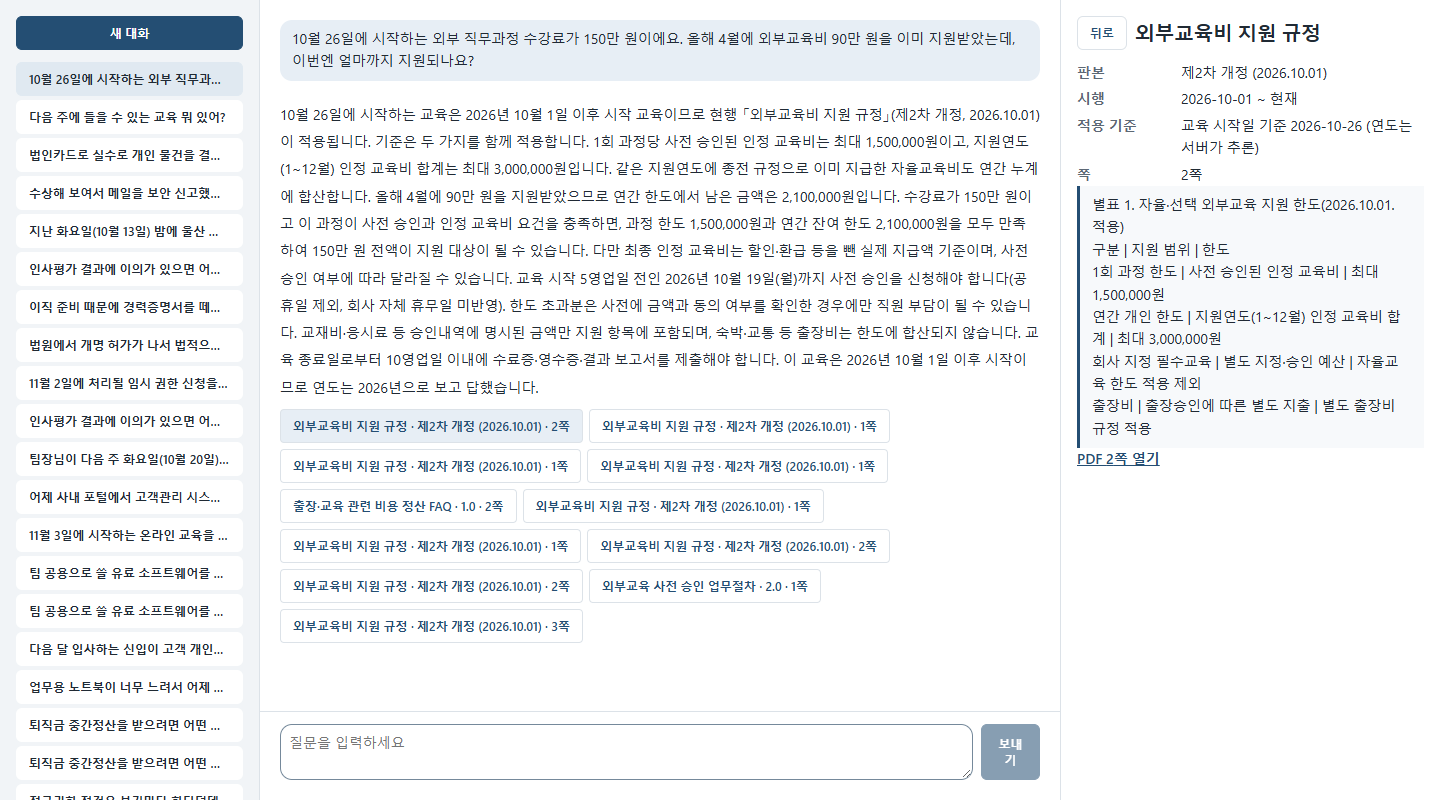
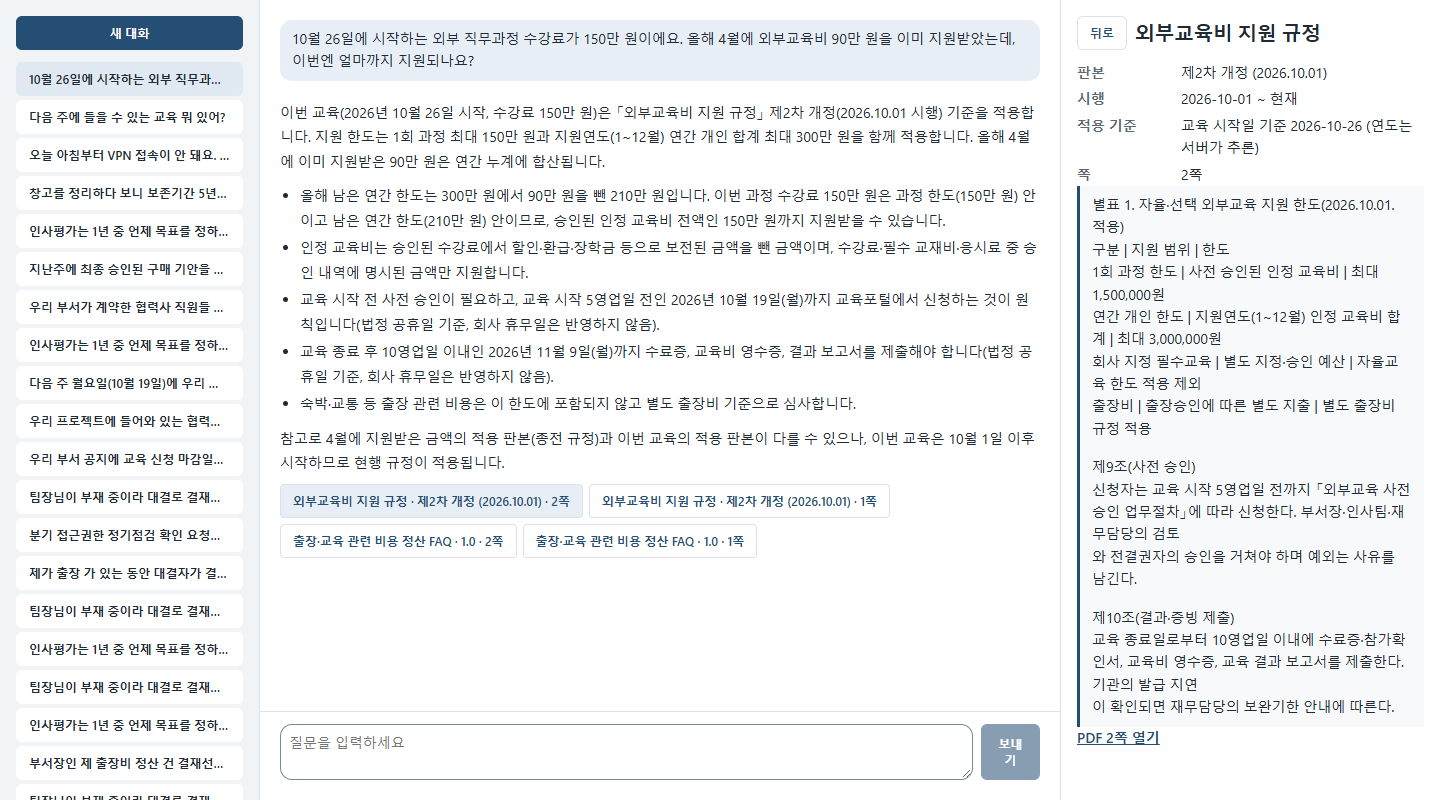
답 가독성: 결론 먼저·조건은 목록으로, 같은 쪽 인용은 버튼 하나로
- 프롬프트 m7-answer-7: answer 형식 규칙만 추가(D-75), 내용 규칙은 그대로
- 화면: '- ' 줄을 목록으로, 같은 문서·판본·쪽·적용 기준 인용을 묶고 상세에 조각 전부 표시
- E2E: 목록 표시와 인용 묶음 시험 추가, README 화면 2장 재촬영

diff --git a/frontend/src/Workspace.tsx b/frontend/src/Workspace.tsx
@@ -5,7 +5,7 @@ import { ActionCard } from "./ActionCard";
 import { ApiError, NetworkError, api, newKey, sendMessage } from "./api";
 import { DetailPanel } from "./Detail";
 import { OUTCOMES, STAGES, formatTime } from "./labels";
-import type { Conversation, Detail, MessageResult, SessionInfo, StoredMessage } from "./types";
+import type { Citation, Conversation, Detail, MessageResult, SessionInfo, StoredMessage } from "./types";
 
 type Pending = { content: string; key: string; conversationId: string };
 
@@ -231,7 +231,7 @@ function MessageView({
   return (
     <article className={`message assistant${message.visibility === "redacted" ? " redacted" : ""}`} data-outcome={message.outcome ?? ""}>
       {message.outcome && message.outcome !== "answered" && <span className="badge">{OUTCOMES[message.outcome] ?? message.outcome}</span>}
-      <p className="answer">{message.content}</p>
+      <AnswerText text={message.content} />
       {message.training_refs.length > 0 && (
         <ul className="refs" aria-label="교육">
           {message.training_refs.map((t) => (
@@ -245,14 +245,18 @@ function MessageView({
       )}
       {message.citations.length > 0 && (
         <ul className="refs" aria-label="근거 원문">
-          {message.citations.map((c) => (
-            <li key={c.citation_id}>
-              <button type="button" className="citation" onClick={(e) => onDetail({ kind: "citation", citation: c }, e.currentTarget)}>
-                {c.title} · {c.version} · {c.page_spans?.[0]?.page ?? 1}쪽
-                {c.edition_state && c.edition_state !== "current" ? " · 종전" : ""}
-              </button>
-            </li>
-          ))}
+          {groupCitations(message.citations).map((group) => {
+            const c = group[0];
+            return (
+              <li key={c.citation_id}>
+                <button type="button" className="citation"
+                  onClick={(e) => onDetail({ kind: "citation", citation: c, group }, e.currentTarget)}>
+                  {c.title} · {c.version} · {c.page_spans?.[0]?.page ?? 1}쪽
+                  {c.edition_state && c.edition_state !== "current" ? " · 종전" : ""}
+                </button>
+              </li>
+            );
+          })}
         </ul>
       )}
       {message.ticket_refs.length > 0 && (
@@ -274,5 +278,45 @@ function MessageView({
         />
       )}
     </article>
+  );
+}
+
+// 같은 문서·판본·쪽·적용 기준의 원문 조각은 버튼 하나로 묶는다. 처음 나온 순서를 지킨다.
+function groupCitations(citations: Citation[]): Citation[][] {
+  const groups = new Map<string, Citation[]>();
+  for (const c of citations) {
+    const key = [c.title, c.version, c.page_spans?.[0]?.page ?? 1, c.edition_state, c.as_of_date, c.date_basis,
+      c.edition_split ?? false, c.source_role ?? ""].join("|");
+    const group = groups.get(key);
+    if (!group) groups.set(key, [c]);
+    else if (!group.some((g) => g.passage_id === c.passage_id)) group.push(c);
+  }
+  return [...groups.values()];
+}
+
+// 답 본문: 빈 줄로 문단을 나누고, "- "로 시작하는 줄은 목록으로 보인다. 그 밖의 글자는 그대로 둔다.
+function AnswerText({ text }: { text: string }) {
+  const blocks: ({ kind: "p"; lines: string[] } | { kind: "ul"; items: string[] })[] = [];
+  for (const line of text.split("\n")) {
+    const item = /^\s*[-•]\s+(.*)$/.exec(line);
+    const last = blocks[blocks.length - 1];
+    if (item) {
+      if (last?.kind === "ul") last.items.push(item[1]);
+      else blocks.push({ kind: "ul", items: [item[1]] });
+    } else if (!line.trim()) {
+      if (last && !(last.kind === "p" && last.lines.length === 0)) blocks.push({ kind: "p", lines: [] });
+    } else if (last?.kind === "p") last.lines.push(line);
+    else blocks.push({ kind: "p", lines: [line] });
+  }
+  return (
+    <div className="answer">
+      {blocks.map((b, i) =>
+        b.kind === "ul" ? (
+          <ul key={i}>{b.items.map((item, j) => <li key={j}>{item}</li>)}</ul>
+        ) : b.lines.length > 0 ? (
+          <p key={i}>{b.lines.join("\n")}</p>
+        ) : null,
+      )}
+    </div>
   );
 }

diff --git a/frontend/src/Detail.tsx b/frontend/src/Detail.tsx
@@ -6,26 +6,30 @@ import type { Detail } from "./types";
 
 export function DetailPanel({ detail, onClose, onExpired }: { detail: Detail; onClose: () => void; onExpired: () => void }) {
   const [data, setData] = useState<Record<string, unknown> | null>(null);
+  const [texts, setTexts] = useState<(string | null)[] | null>(null);
   const [error, setError] = useState<string | null>(null);
   const heading = useRef<HTMLHeadingElement | null>(null);
 
   useEffect(() => {
     let alive = true;
     setData(null);
+    setTexts(null);
     setError(null);
-    const load =
-      detail.kind === "training"
-        ? api.training(detail.id)
-        : detail.kind === "ticket"
-          ? api.ticket(detail.id)
-          : api.evidence(detail.citation.evidence_url);
-    load
-      .then(({ data }) => alive && setData(data))
-      .catch((e) => {
-        if (!alive) return;
-        if (e instanceof ApiError && e.status === 401) onExpired();
-        else setError(e instanceof ApiError && e.status === 404 ? "볼 수 없는 자료입니다." : "불러오지 못했습니다.");
-      });
+    const fail = (e: unknown) => {
+      if (!alive) return;
+      if (e instanceof ApiError && e.status === 401) onExpired();
+      else setError(e instanceof ApiError && e.status === 404 ? "볼 수 없는 자료입니다." : "불러오지 못했습니다.");
+    };
+    if (detail.kind === "citation") {
+      // 묶인 조각마다 원문을 읽는다(권한은 요청마다 서버가 다시 확인한다).
+      Promise.all(detail.group.map((c) => api.evidence(c.evidence_url)))
+        .then((loaded) => alive && setTexts(loaded.map(({ data }) => (data.text as string | undefined) ?? null)))
+        .catch(fail);
+    } else {
+      (detail.kind === "training" ? api.training(detail.id) : api.ticket(detail.id))
+        .then(({ data }) => alive && setData(data))
+        .catch(fail);
+    }
     heading.current?.focus();
     return () => {
       alive = false;
@@ -46,7 +50,7 @@ export function DetailPanel({ detail, onClose, onExpired }: { detail: Detail; on
         <h2 tabIndex={-1} ref={heading}>{title}</h2>
       </div>
       {error && <p className="notice" role="alert">{error}</p>}
-      {detail.kind === "citation" && <CitationBody detail={detail} data={data} />}
+      {detail.kind === "citation" && <CitationBody detail={detail} texts={texts} />}
       {detail.kind === "training" && data && (
         <dl className="fields">
           <div><dt>교육</dt><dd>{String(data.title)}</dd></div>
@@ -70,7 +74,7 @@ export function DetailPanel({ detail, onClose, onExpired }: { detail: Detail; on
   );
 }
 
-function CitationBody({ detail, data }: { detail: Extract<Detail, { kind: "citation" }>; data: Record<string, unknown> | null }) {
+function CitationBody({ detail, texts }: { detail: Extract<Detail, { kind: "citation" }>; texts: (string | null)[] | null }) {
   const c = detail.citation;
   const page = c.page_spans?.[0]?.page ?? 1;
   const past = c.edition_state && c.edition_state !== "current";
@@ -88,7 +92,9 @@ function CitationBody({ detail, data }: { detail: Extract<Detail, { kind: "citat
         {c.source_role === "transition" && <div><dt>구분</dt><dd>반대편 판본의 경과조항</dd></div>}
         <div><dt>쪽</dt><dd>{page}쪽</dd></div>
       </dl>
-      <blockquote>{String((data?.text as string | undefined) ?? c.quote)}</blockquote>
+      {detail.group.map((g, i) => (
+        <blockquote key={g.citation_id}>{texts?.[i] ?? g.quote}</blockquote>
+      ))}
       {/* 서버가 만든 같은 출처 경로만 링크로 쓴다 */}
       {c.pdf_url.startsWith("/api/v1/") && (
         <a className="pdf-link" href={c.pdf_url} target="_blank" rel="noreferrer">PDF {page}쪽 열기</a>

diff --git a/frontend/e2e/flows.spec.ts b/frontend/e2e/flows.spec.ts
@@ -129,6 +129,33 @@ test("규정 인용: 판본·종전·적용 기준·쪽을 보여 주고 PDF는 
   await expect(panel.getByRole("link", { name: /PDF \d+쪽 열기/ })).toHaveAttribute("href", /\/api\/v1\/source-files\/PDF-031\/pdf#page=\d+/);
 });
 
+test("답 형식: '- ' 줄은 목록으로 보이고, 같은 문서·판본·쪽 인용은 버튼 하나로 묶인다(D-75)", async ({ page }) => {
+  await login(page);
+  await ask(page, "9월 29일에 시작한 외부교육 한도 정리해 줘");
+  const answer = page.locator(".message.assistant .answer").last();
+  await expect(answer.locator("p")).toHaveText("외부교육비는 과정 한도와 연간 한도를 함께 봅니다.");
+  await expect(answer.locator("li")).toHaveText(["사전 승인을 받은 교육만 지원합니다", "한도를 넘는 금액은 본인이 부담합니다"]);
+
+  // 서버가 준 인용 수와 화면 버튼 수를 비교한다(같은 문서·판본·쪽이면 하나).
+  const conversationId = await page.locator("#conversation-list button.selected").getAttribute("data-id");
+  const stored = (await (await page.request.get(`/api/v1/conversations/${conversationId}/messages`)).json()).items;
+  const citations: { title: string; version: string; page_spans: { page: number }[] }[] = stored[stored.length - 1].citations;
+  const pages = new Map<string, number>();
+  for (const c of citations) {
+    const key = `${c.title} · ${c.version} · ${c.page_spans[0]?.page ?? 1}쪽`;
+    pages.set(key, (pages.get(key) ?? 0) + 1);
+  }
+  const buttons = page.locator(".message.assistant").last().locator("button.citation");
+  await expect(buttons).toHaveCount(pages.size);
+  expect(new Set(await buttons.allInnerTexts()).size).toBe(pages.size);
+
+  // 조각이 여럿인 버튼은 상세에 그 조각을 모두 보인다.
+  const [label, count] = [...pages.entries()].sort((a, b) => b[1] - a[1])[0];
+  expect(count).toBeGreaterThan(1); // 시험 corpus에서 같은 쪽 조각이 실제로 묶이는지 확인
+  await buttons.filter({ hasText: label }).first().click();
+  await expect(page.getByRole("complementary", { name: "상세" }).locator("blockquote")).toHaveCount(count);
+});
+
 test("IT 접수: 초안 → 수정 저장 → 확인 반복 클릭에도 티켓 1건, 새로고침 뒤 실제 상태", async ({ page }) => {
   await login(page);
   const before = await tickets(page);

diff --git a/frontend/src/styles.css b/frontend/src/styles.css
@@ -81,7 +81,11 @@ label { display: grid; gap: 4px; font: 600 13px var(--font); }
 .message.user { align-self: flex-end; background: var(--highlight); border-radius: 12px; padding: 8px 12px; }
 .message.user p { margin: 0; white-space: pre-wrap; overflow-wrap: anywhere; }
 .message { min-width: 0; overflow-wrap: anywhere; }
-.message.assistant .answer { line-height: 1.95; white-space: pre-wrap; margin: 4px 0; overflow-wrap: anywhere; }
+.message.assistant .answer { line-height: 1.75; margin: 4px 0; overflow-wrap: anywhere; }
+.answer p { margin: 0 0 10px; white-space: pre-wrap; }
+.answer ul { margin: 0 0 10px; padding-left: 20px; }
+.answer li { margin: 3px 0; }
+.answer > :last-child { margin-bottom: 0; }
 .refs button { max-width: 100%; white-space: normal; text-align: left; overflow-wrap: anywhere; }
 .message.redacted .answer { color: var(--muted); }
 .badge { display: inline-block; font: 600 12px var(--font); color: var(--muted); border: 1px solid var(--line); border-radius: 4px; padding: 0 6px; }

diff --git a/frontend/src/types.ts b/frontend/src/types.ts
@@ -92,5 +92,6 @@ export interface MessageResult {
 
 export type Detail =
   | { kind: "training"; id: string; title: string }
-  | { kind: "citation"; citation: Citation }
+  // 같은 문서·판본·쪽의 원문 조각은 버튼 하나로 묶는다(group[0] = citation).
+  | { kind: "citation"; citation: Citation; group: Citation[] }
   | { kind: "ticket"; id: string; title: string };

diff --git a/backend/tests/e2e_server.py b/backend/tests/e2e_server.py
@@ -84,6 +84,8 @@ class RuleModel:
             await asyncio.sleep(0.3)
             call = request.messages[-2].tool_calls[0]
             result = json.loads(last.tool_results[0].content)
+            if call.name == "search_documents" and call.arguments.get("query") == "외부교육비 지원 한도 정리":
+                return self._summary(result)
             return self._after(call.name, result)
         question = (last.text or "").split("[사용자 질문]\n", 1)[-1]
         if "VPN" in question:
@@ -107,6 +109,17 @@ class RuleModel:
             return _tool("list_it_tickets", {})
         if "교육" in question and ("일정" in question or "다음 주" in question):
             return _tool("list_trainings", {"date_preset": "next_week"})
+        if "정리" in question:
+            # 답 형식(D-75): 결론 문장 + "- " 항목, 받은 원문 전부 인용(화면이 같은 쪽 조각을 묶는다)
+            return _tool(
+                "search_documents",
+                {
+                    "query": "외부교육비 지원 한도 정리",
+                    "date_basis": "training_start",
+                    "as_of_date": "2026-09-29",
+                    "date_quote": "9월 29일에 시작한",
+                },
+            )
         if "한도" in question or "규정" in question:
             args: dict[str, Any] = {"query": "외부교육비 1회 과정 지원 한도"}
             if "9월 29일에 시작한" in question:
@@ -115,6 +128,19 @@ class RuleModel:
                 )
             return _tool("search_documents", args)
         return _final("교육 일정, 회사 규정, IT 지원 접수를 도와드릴 수 있습니다.")
+
+    def _summary(self, result: dict[str, Any]) -> ModelResponse:
+        if not result.get("ok") or result["data"]["resolution"] != "resolved":
+            return _final("날짜를 알려 주세요.", "needs_clarification")
+        passages = [p for g in result["data"]["groups"] for p in g["passages"]]
+        if not passages:
+            return _final("근거를 찾지 못했습니다.", "insufficient_evidence")
+        answer = (
+            "외부교육비는 과정 한도와 연간 한도를 함께 봅니다.\n\n"
+            "- 사전 승인을 받은 교육만 지원합니다\n"
+            "- 한도를 넘는 금액은 본인이 부담합니다"
+        )
+        return _final(answer, citation_ids=[p["citation_id"] for p in passages[:12]])  # 인용 상한 30 안
 
     def _after(self, name: str, result: dict[str, Any]) -> ModelResponse:
         if not result.get("ok"):

diff --git a/backend/src/agent/modules/agent_runtime/prompt.py b/backend/src/agent/modules/agent_runtime/prompt.py
@@ -30,7 +30,8 @@ from agent.shared.clock import KST
 # m7-answer-4: 검색을 약속만 하고 도구를 부르지 않은 첫 응답에 서버 안내 SEARCH_PROMISE_RETRY(D-68).
 # m7-answer-5: 영업일 기한은 직접 세지 않고 calculate_business_deadline으로 계산한다(규칙 21, D-69).
 # m7-answer-6: 검색 결과의 deadline_hints(서버가 사용자 날짜로 미리 계산한 마감일)를 쓴다(규칙 21, D-71).
-PROMPT_VERSION = "m7-answer-6"
+# m7-answer-7: answer 형식(결론 먼저, 조건·기한·예외는 "- " 항목, 다른 마크다운 금지, D-75). 내용 규칙은 그대로.
+PROMPT_VERSION = "m7-answer-7"
 
 _CACHE_FIELDS = ("id", "code", "title", "starts_at", "ends_at", "location", "status")
 
@@ -59,6 +60,7 @@ _TEMPLATE = """\
 
 최종 답변은 JSON으로 낸다(조회가 필요하면 도구 호출이 먼저다):
 - answer: 사용자에게 보여 줄 한국어 문장. 되묻기라면 사용자에게 할 질문이다. 어떤 outcome이든 비워 두지 않는다
+- answer 형식: 첫 한두 문장에 질문에 대한 결론을 쓴다. 덧붙일 조건·금액·기한·예외·절차가 둘 이상이면 빈 줄 하나 뒤에 줄마다 "- "로 시작하는 짧은 항목으로 나눈다(한 항목에 한 가지). 짧은 답은 문장으로만 쓴다. 굵게(**), 제목(#), 표 같은 다른 마크다운 기호는 쓰지 않는다(화면이 그대로 보여 준다)
 - outcome: answered / needs_clarification / no_results / insufficient_evidence 중 하나
 - training_ids: 답변에서 언급한 교육의 id 목록(도구 결과나 대화 자료의 id 그대로)
 - selected_training_id: 답변이 교육 하나만 가리키면 그 id, 아니면 null

diff --git a/backend/tests/test_agent_runtime.py b/backend/tests/test_agent_runtime.py
@@ -535,7 +535,8 @@ def test_prompt_requires_question_text_for_clarification():
     from agent.shared.clock import FIXTURE_NOW
 
     prompt = system_prompt(FIXTURE_NOW)
-    assert PROMPT_VERSION == "m7-answer-6"
+    assert PROMPT_VERSION == "m7-answer-7"
+    assert '줄마다 "- "로 시작하는 짧은 항목' in prompt  # D-75 답 형식
     assert "그다음 절차" in system_prompt(FIXTURE_NOW, documents=True)
     assert "assumed_today가 true면" in system_prompt(FIXTURE_NOW, documents=True)
     assert "되묻는 경우에도 answer에는 사용자에게 할 질문을 한국어 문장으로 쓴다" in prompt

diff --git a/docs/10-decisions-and-open-questions.md b/docs/10-decisions-and-open-questions.md
@@ -80,6 +80,7 @@
 | D-72 | 원문 검색 설정 `raw-exact-cosine-v2`(v1 `raw-exact-cosine-v1`): 후보 passage 20→40, 거리 순 그대로. MOD-02 예산: 검색 한 번은 실행 근거 예산(동결 4000)의 0.75까지만 새로 쓴다(대표 그룹은 예외로 전체 예산 안이면 넣는다, 다음 검색에 1000을 남긴다). 몫 때문에 덜 넣은 하위 후보는 evidence_budget_exceeded로 표시하지 않는다. 모델 인자 top_k 상한 20→40. 평가 결과 config에 retriever_config_id를 남기고 설정이 다른 결과 파일에는 이어 쓰지 않는다. 처음 커밋(6db8175)은 문서 다양성 순서(문서당 앞 4그룹)와 몫 0.5였으나, 모델을 뺀 검색 단계 비교(복수 문서 113문항, 같은 질의·같은 DB, 첫 검색의 예산 안 정답 근거 재현율)에서 v1 0.843 대비 0.815(좋아짐 9·나빠짐 20)로 나빠 고쳤다: 후보 40·거리 순·몫 없음 0.904(22·0), 몫 0.75 0.892(18·0), 몫 0.5 0.866(9·0), 다양성은 몫이 없으면 거리 순과 같고 몫과 함께면 해롭다. 주의: v1·v2의 Recall@pool·found_not_packed·hard negative in context는 후보 수가 달라 직접 비교하지 않는다. A/B 비교(docs/13)는 A만 이 설정을 쓰므로 비대칭이다(Wiki는 사용자 지시로 범위 밖) | holdout3 개선 후 실측: 복수 문서 문항에서 모델에 넘어간 원문 평균 1,652 token(예산의 41%), 후보 상한 20. 사용자 요청("복수 문서 질문의 검색 재현율", "과금해도 되니 조금만 쓰고 확실히 확인"), 세부값은 위 측정으로 정함. 독립 검증(저장된 질의 벡터 1,044개 모의): 몫이 없으면 첫 검색이 예산 중앙값 3,283 token을 써 다음 검색의 65%가 잘림. holdout4 전후 실행(D-73)은 모델 흔들림이 커 검색 효과를 가르지 못했다(보고서 9.12). [P-29](15-policy-options.md#p-29) B |
 | D-73 | D-72의 효과는 새 복수 문서 확인셋 holdout4(`eval/cases/holdout4.jsonl`, 20문항)로 개선 전(D-72 이전 코드: fd53a3d + holdout4 실행 지원 커밋)·후를 같은 문항·같은 DB·동결 예산 4000으로 한 번씩 돌려 짝으로 본다. 주 지표는 정답 근거가 모델 문맥에 들어갔는지(규칙 채점 evidence_in_context·recall_budget)이고, 정답률(규칙·judge)도 함께 본다. 실행은 과금(사용자 승인: "마지막엔 과금해도 되니 조금만 쓰고 확실히 확인해라") | holdout3는 D-72 실패 분석에 썼다(D-62·D-70과 같은 근거) |
 | D-74 | 대화 목록·상세의 title은 저장된 제목이 없으면 첫 사용자 질문(공백 정리, 40자 넘으면 자르고 …)으로 서버가 만든다. 저장하지 않는 표시 값이라 기존 대화에도 그대로 적용되고, 질문이 없는 빈 대화는 null(화면은 생성 시각 표시). 화면은 한 줄 말줄임과 전체 이름 툴팁 | 사용자 요청(2026-10-21): "대화 · 시각"만 줄지어 보여 구분이 안 된다 |
+| D-75 | 답 가독성: 프롬프트 m7-answer-7에 answer 형식 규칙(결론 먼저, 조건·기한·예외 등이 둘 이상이면 "- " 항목, 굵게·제목·표 금지)을 더하고, 화면은 "- " 줄을 목록으로, 같은 문서·판본·쪽·적용 기준의 인용을 버튼 하나로 묶는다(상세에 조각 전부). 내용 규칙은 바꾸지 않는다. 평가 수치(보고서 9절)는 m7-answer-6 이하 프롬프트로 잰 것이며, 형식 변경의 정답률 영향은 재지 않았다 | 사용자 요청(2026-10-21): 답이 한 문단으로 길게 이어지고 같은 쪽 인용 버튼이 여러 개 반복돼 읽기 어렵다("내용 말고" 가독성) |
 
 ## 초기 기본 정책 — 설정으로 명시
 

diff --git a/docs/modules/MOD-02-agent-runtime.md b/docs/modules/MOD-02-agent-runtime.md
@@ -59,6 +59,7 @@ origin_candidates의 quote/message ID를 CP-07 user 원문과 대조해 code poi
 - D-37: 도구 없는 첫 응답의 빈 answer(되묻기 제외)는 `[서버 안내]` 문구로 한 번만 다시 부르고 usage.empty_answer_retries에 남긴다. 사용자가 쓴 `[서버 안내]`는 무력화한다.
 - D-72(2026-10-20): `_search_view` 예산 packing에 검색당 몫 `_SEARCH_BUDGET_SHARE`(0.75)를 더했다. 한 검색은 실행 예산의 0.75까지만 새로 쓰고(첫 그룹은 예외로 전체 예산 안이면 넣음), 몫 때문에 멈춘 것은 evidence_budget_exceeded가 아니다. 전체 예산 초과·대표 그룹 누락 판정은 그대로다.
 - D-71(2026-10-20): `_search_view`가 예산 안 passage(`kept_groups`)로 `deadlines.deadline_hints`를 만들어 모델 보기에 `deadline_hints`로 붙인다. 기준일 후보는 `dates.deadline_bases`(이번 메시지 + 이력 창 본인 메시지를 최근 것부터, 최대 4개). 프롬프트 `m7-answer-6`(규칙 21).
+- D-75(2026-10-21): 프롬프트 `m7-answer-7`은 answer 형식만 정한다(첫 한두 문장에 결론, 덧붙일 조건·금액·기한·예외·절차가 둘 이상이면 빈 줄 뒤 "- " 항목, 다른 마크다운 금지). 내용·인용·결론 규칙은 m7-answer-6과 같다.
 - D-69(2026-10-20): calculate_business_deadline의 field_origins `base_date={verified, source}`를 계산한다(이번 실행 도구 결과의 ISO 날짜 `tool_dates`, 본인 메시지의 월·일 표현, 오늘+"오늘"). 계산 호출은 `deadline_calls`로 따로 세고 상한 `_MAX_DEADLINE_CALLS`=4, 나머지 도구는 기존 max_tool_proposals. 프롬프트 `m7-answer-5`(규칙 21, 규칙 10의 계산 날짜 예외).
 - D-68(2026-10-20): 도구 없는 유효한 첫 응답에 검색·확인 약속(`promises.promises_lookup`)이 있고 search_documents가 허용되면 `SEARCH_PROMISE_RETRY`(프롬프트 `m7-answer-4`)를 붙여 tool_choice=any로 한 번 다시 부른다(`_retry_search_promise`). 재호출 경로는 `_drive(fallback=첫 응답)`로 이어 가고 실행 기한보다 `_PROMISE_RESERVE_S`(2초) 먼저 끊는다. 그 안의 AppError·시간 초과, 다시 도구 없이 끝난 응답은 첫 응답으로 `_finish`한다. usage.search_promise_retries.
 - D-39: 확인된 사건의 인용(또는 교육)이 있는 answered에 날짜를 확인하지 못한 사건(같은 event_key가 끝내 resolved되지 않은 되묻기)이 있으면, 그 서버 되묻기 문구를 답 끝에 붙인다(모델 답에 이미 있으면 붙이지 않음).

diff --git a/docs/modules/MOD-08-chat-ui.md b/docs/modules/MOD-08-chat-ui.md
@@ -13,6 +13,7 @@ MOD-01 대화/메시지/run, MOD-04 교육 상세, MOD-05 근거/PDF, MOD-09 세
 
 - PC: 대화 목록 + 중앙 업무 대화 + 선택적 상세/출처. 모바일: 메뉴·전체 너비 상세·뒤로 복귀.
 - 인용: 문서명·판본·조회 기준일·실제 PDF 페이지·원문 구간. 과거 판본임을 구분한다.
+- 답 본문은 빈 줄로 문단을 나누고 "- "로 시작하는 줄을 목록으로 보인다(D-75). 같은 문서·판본·쪽·적용 기준의 인용은 버튼 하나로 묶고, 상세에서 그 조각을 모두 보인다(조각마다 근거 API로 다시 읽는다).
 - 티켓: 준비된 subject/description/category·만료·확인/취소. 확인 누름 전에는 등록 완료 문구 금지.
 - 편집은 최초 action_pending을 바인딩한 폼이다. draft는 변경이 없어도 version/fields/멱등키로 revise하여 pending을 만든다. pending은 변경 없으면 GET action, 변경하면 revise를 호출하고 새 action의 preview를 확인한다. 새로고침 후 이전 메시지의 action은 current_action_id를 따라 새 내용을 다시 표시하며 자동 승인하지 않는다. 확인 요청에는 fields를 재전송하지 않는다. 자유문장은 사용자 입력으로 표시하며 검색 원문을 자동 첨부하지 않는다.
 - 확인 중 반복 전송을 막고 동일 Idempotency-Key를 재사용한다. 응답 유실이면 action 상태를 조회한다.
